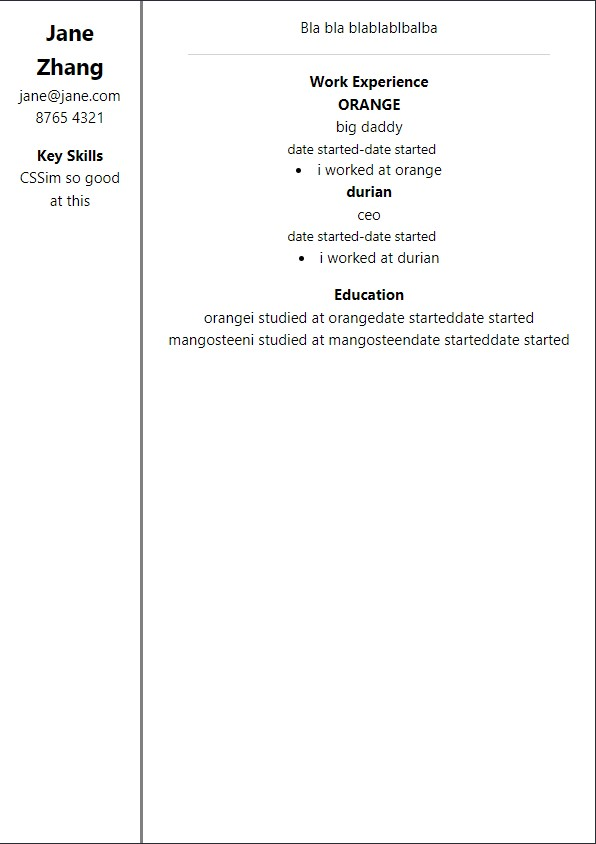
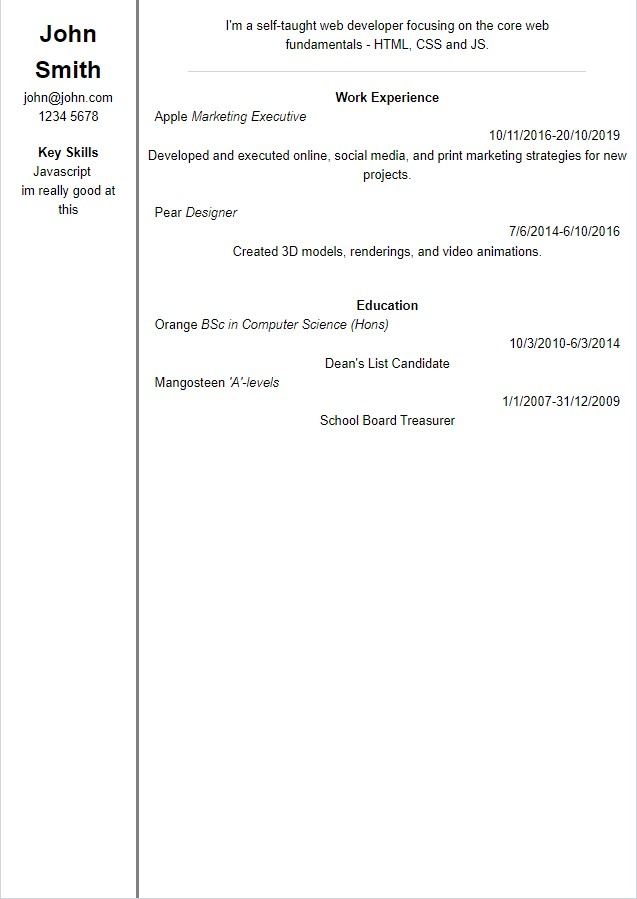
finished styling for all 3 templates

Changed region(s): [[0.0302, 0.0, 1.0, 1.0], [0.5134, 0.4621, 0.7248, 0.4929], [0.0, 0.9858, 0.0302, 1.0]]

diff --git a/src/Components/Templates/template3.tsx b/src/Components/Templates/template3.tsx
@@ -2,6 +2,7 @@ import React, { useState } from "react";
 import { FontAwesomeIcon } from "@fortawesome/react-fontawesome";
 import { UserTypes } from "../types";
 import "../../styling/TemplateStyling/template3.css";
+import "../../styling/TemplateStyling/template1.css";
 import axios from "axios";
 import { useAuth0 } from "@auth0/auth0-react";
 import { UserContext } from "../../App";
@@ -106,12 +107,17 @@ function Template3({
             {work &&
               work.map((company, index) => {
                 return toggle ? (
-                  <div className="template3-workplace" key={index}>
-                    {company.place}
-                    <br />
+                  <div className="template1-work-section" key={index}>
+                    <div className="template1-work-header">
+                      <div className="template1-place">
+                        {company.place}&nbsp; <i> {company.position}</i>
+                      </div>
+                      <div className="template1-dates">
+                        {company.date_started}-{company.date_ended}
+                      </div>
+                    </div>
                     {company.description}
                     <br />
-                    {company.date_started} to {company.date_ended}
                   </div>
                 ) : (
                   <div className="template1-educationplace" key={index}>
@@ -168,12 +174,20 @@ function Template3({
             {education &&
               education.map((educationPlace, index) => {
                 return toggle ? (
-                  <div className="template3-educationplace" key={index}>
-                    {educationPlace.place}
-                    <br />
+                  <div className="template1-education-section" key={index}>
+                    <div className="template1-education-header">
+                      <div className="template1-place">
+                        {educationPlace.place}&nbsp;{" "}
+                        <i> {educationPlace.level}</i>
+                      </div>
+                      <div className="template1-dates">
+                        {educationPlace.date_started}-
+                        {educationPlace.date_ended}
+                      </div>
+                    </div>
+
                     {educationPlace.description}
                     <br />
-                    {educationPlace.date_started} to {educationPlace.date_ended}
                   </div>
                 ) : (
                   <div className="template1-educationplace" key={index}>
@@ -238,7 +252,8 @@ function Template3({
               keyskills.map((keySk, index) => {
                 return toggle ? (
                   <div className="template1-skill" key={index}>
-                    {keySk.name}:{keySk.description}
+                    <div className="template1-place"> {keySk.name}</div>
+                    {keySk.description}
                   </div>
                 ) : (
                   <div>

diff --git a/src/Components/AddTemplate.tsx b/src/Components/AddTemplate.tsx
@@ -221,52 +221,15 @@ function AddTemplate() {
         } else if (templateChoice == 2) {
           return (
             <Template2
-              username={"John Smith"}
-              email={"john@john.com"}
-              keyskills={[
-                {
-                  name: "Javascript",
-                  description: "im really good at this",
-                },
-              ]}
-              work={[
-                {
-                  place: "Apple",
-                  position: "Marketing Executive",
-                  description:
-                    "Developed and executed online, social media, and print marketing strategies for new projects.",
-                  date_ended: "20/10/2019",
-                  date_started: "10/11/2016",
-                },
-                {
-                  place: "Pear",
-                  position: "Designer",
-                  description:
-                    "Created 3D models, renderings, and video animations.",
-                  date_ended: "6/10/2016",
-                  date_started: "7/6/2014",
-                },
-              ]}
-              education={[
-                {
-                  place: "Orange",
-                  level: "BSc in Computer Science (Hons)",
-                  description: "Dean's List Candidate",
-                  date_started: "10/3/2010",
-                  date_ended: "6/3/2014",
-                },
-                {
-                  place: "Mangosteen",
-                  level: "'A'-levels",
-                  description: "School Board Treasurer",
-                  date_started: "1/1/2007",
-                  date_ended: "31/12/2009",
-                },
-              ]}
+              username={userName}
+              email={userEmail}
+              keyskills={userSkills}
+              work={userWork}
+              education={userEducation}
               updateEducation={updateEducation}
               updateAll={updateAll}
-              phone={"1234 5678"}
-              user={1}
+              phone={userPhone}
+              user={userId}
               updateSkill={updateSkill}
               updateWork={updateWork}
               image={image}

diff --git a/src/styling/TemplateStyling/template3.css b/src/styling/TemplateStyling/template3.css
@@ -6,12 +6,12 @@
   flex-direction: row;
 
   color: black;
-  font-size: 20px;
+  font-size: 12pt;
 }
 
 .template3-name {
   font-weight: bold;
-  font-size: 30px;
+  font-size: 20px;
 }
 
 .template3-header-container {
@@ -32,9 +32,19 @@
   width: 100%;
 }
 
+.template3-work,
+.template3-education,
+.template3-skills {
+  width: 100%;
+}
+
 .template3-bottom-headers {
   font-weight: bold;
+  text-align: left;
+  padding-left: 20px;
   padding-top: 20px;
+  font-size: 14pt;
+  padding-bottom: 15px;
 }
 
 .template3-blurb {

diff --git a/src/styling/TemplateStyling/template2.css b/src/styling/TemplateStyling/template2.css
@@ -8,6 +8,11 @@
   font-size: 12pt;
 }
 
+.template2-work,
+.template2-education {
+  width: 100%;
+}
+
 .template2-name {
   font-weight: bold;
   font-size: 30px;
